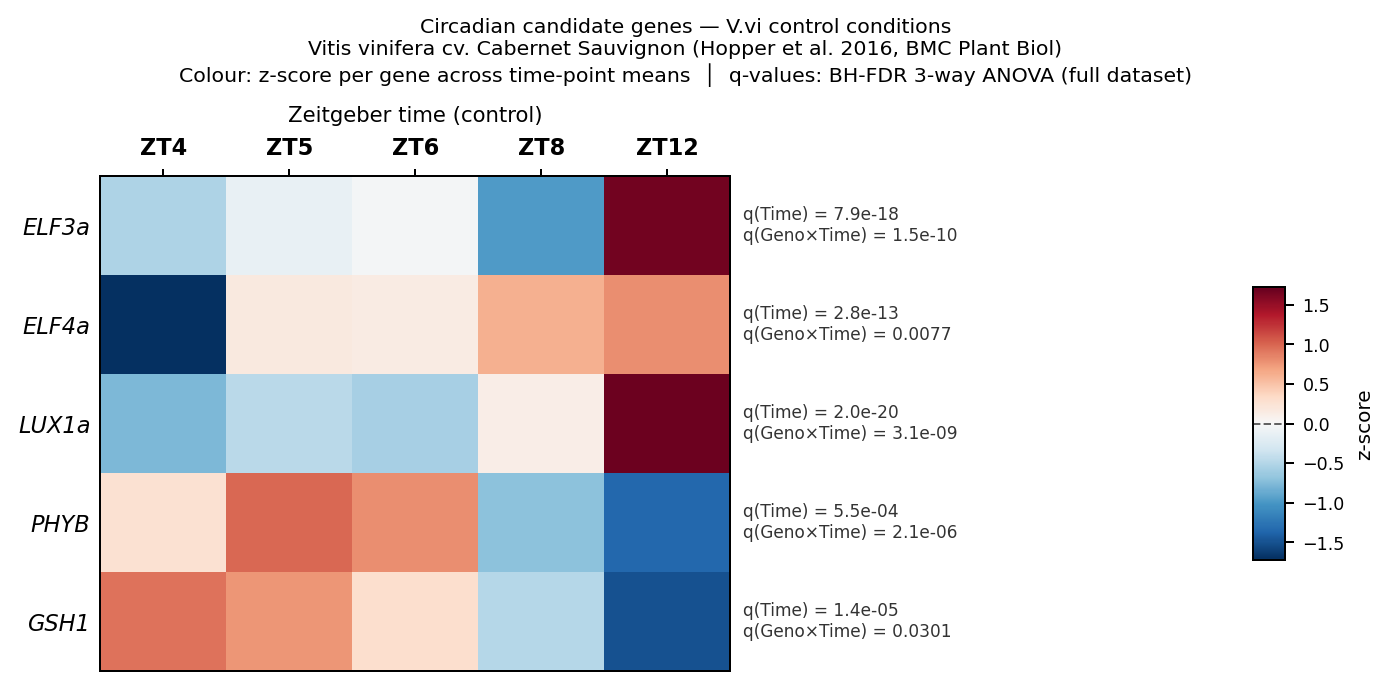
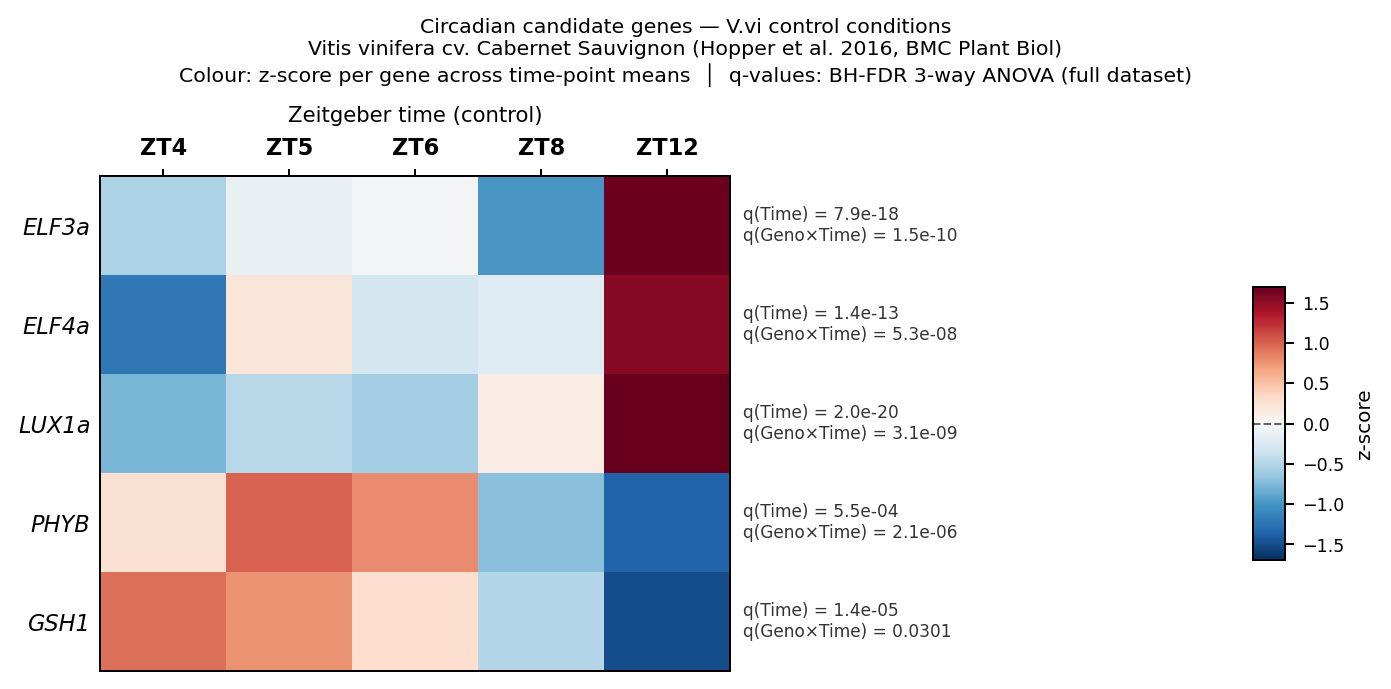
Update ELF4 to VIT_13s0067g00860 in Cvi ZT 5-gene heatmap
Replaces previous ELF4a data with VIT_13s0067g00860 (q_time=1.4e-13,
q_CultxTime=5.3e-8), matching the corrected locus used in other plots.

https://claude.ai/code/session_01YcHxToSPSCaMBM7XacLiuc

diff --git a/heatmap_Cvi_ZT_5gene.py b/heatmap_Cvi_ZT_5gene.py
@@ -2,8 +2,11 @@
 """heatmap_Cvi_ZT_5gene.py
 --------------------------
 As heatmap_Cvi_ZT_4gene.py with GSH1 (VIT_02s0025g03530) added.
+ELF4 updated to VIT_13s0067g00860.
 
-Genes   : ELF3a, ELF4a, LUX1a, PHYB, GSH1
+Genes   : ELF3a (VIT_04s0008g00660), ELF4a (VIT_13s0067g00860),
+          LUX1a (VIT_06s0004g05120), PHYB (VIT_05s0077g00940),
+          GSH1  (VIT_02s0025g03530)
 Columns : ZT4, ZT5, ZT6, ZT8, ZT12
           (raw times 24 h, 1 h, 2 h, 4 h, 8 h)
 
@@ -21,7 +24,7 @@ from matplotlib.colors import TwoSlopeNorm
 # Internal array order: [1 h, 2 h, 4 h, 8 h, 24 h]
 GENES = [
     dict(short='ELF3a', Cab=[12.8277, 12.8714, 12.4261, 13.6608, 12.6355], q_time=7.88e-18, q_culttime=1.50e-10),
-    dict(short='ELF4a', Cab=[13.2714, 13.2597, 13.4236, 13.4866, 12.6139], q_time=2.85e-13, q_culttime=7.74e-3),
+    dict(short='ELF4a', Cab=[12.6977, 12.3029, 12.3711, 13.7387, 11.5924], q_time=1.41e-13, q_culttime=5.28e-8),
     dict(short='LUX1a', Cab=[10.6451, 10.4880, 11.5516, 13.9656, 10.1786], q_time=1.98e-20, q_culttime=3.14e-9),
     dict(short='PHYB',  Cab=[13.1753, 13.1517, 12.9691, 12.8915, 13.0865], q_time=5.48e-4,  q_culttime=2.14e-6),
     dict(short='GSH1',  Cab=[12.8261, 12.8065, 12.7746, 12.7336, 12.8332], q_time=1.43e-5,  q_culttime=3.01e-2),
